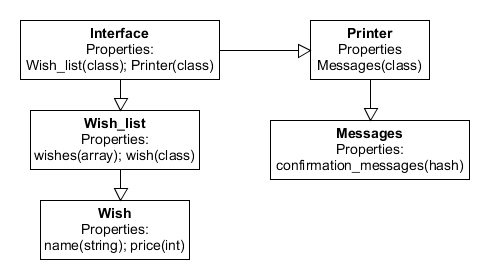
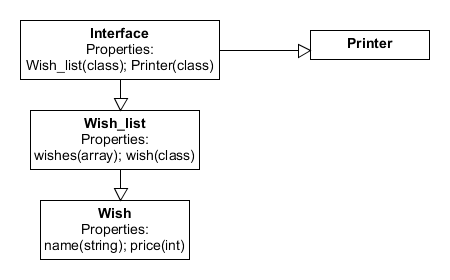
readme update

diff --git a/README.md b/README.md
@@ -87,14 +87,11 @@ This concluded my planning and I began writing code.
 I took a TDD approach to writing my code, beginning with feature tests that prompted unit tests that drove me to write code.
 I got upto implementing adding a wish when I realised I needed to decide on how I'd handle passing back confirmation messages to the customer. 
 This prompted me to draw up a domain model. I envisioned having an interface ontop of the wish_list, that could call the lists public methods. 
-The interface would also have a printer class that would return the correct confirmation message from a messages hash. 
+The interface would also have a printer class that would return the correct confirmation message for a given action.
 This would allow proper separation of model, view and controller and by keeping any presentation information out of wish_list it allows it to be inserted into any interface.
-However, having done this I realised that the presentation was not the most interesting feature and so in the interest of time I'd assume that my wish_list would be hooked up to an interface at a later date and that I'd continue working on more novel features.
 
 From here I carried on implementing the basic features remove and get wish. 
 The edit_wish method proved to require a little extra thought. I wanted to implement it so that if the wish were to have additional properties added to it in the future (e.g. order value), I wouldn't have to come back and change the edit method.
-
-
 
 ### Domain Model Diagram with Interface
 ![Alt text](/assets/wish_list_domain.png)
@@ -116,5 +113,16 @@ Following completetion of the basic MVP, there a few things I'd like to do to ex
 * Allow ordering of the list, so the customer can choose which item they'd like to save for first
 * Implement a sorting function that can return the list sorted by user defined property (e.g. price descending)
 * Assuming the list can be hooked up to a savings account, allow realtime notifications (by text/email) of when you've saved enough to afford an item on your list
-* Add a fully functioning interface and presentation layer for use on the command line
+* Add a fully functioning interface and presentation layer for use on the command line - Complete
 * Extract error messages out into a seperate errors class that inherits from ruby's StandardError
+* Add more properties to each wish e.g. a link to a webpage where you can purchase the item
+* Create another class that deals with different ways of saving and can interact with the wish list when certain saving goals are reached
+    * Have a max spending target each month, any money under that target can be put towards items on the wish list
+    * Round up purchases to the nearest pound, put the extra change towards wish list
+
+### Possible Future User Stories
+```
+As a current account customer,
+So I can easily see how much I've saved,
+I'd like to set monthly spending targets, with any surplus counted towards items on my wish list.
+```
